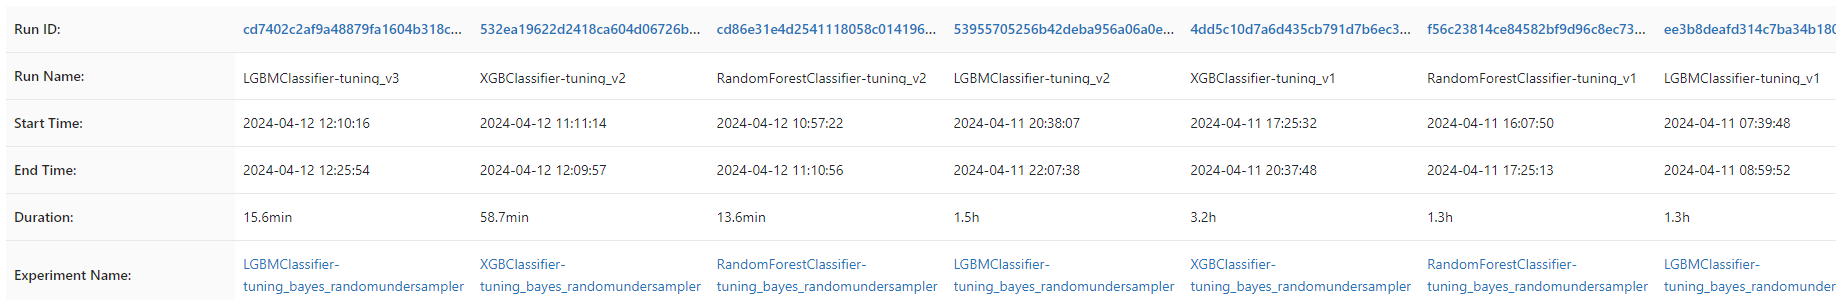
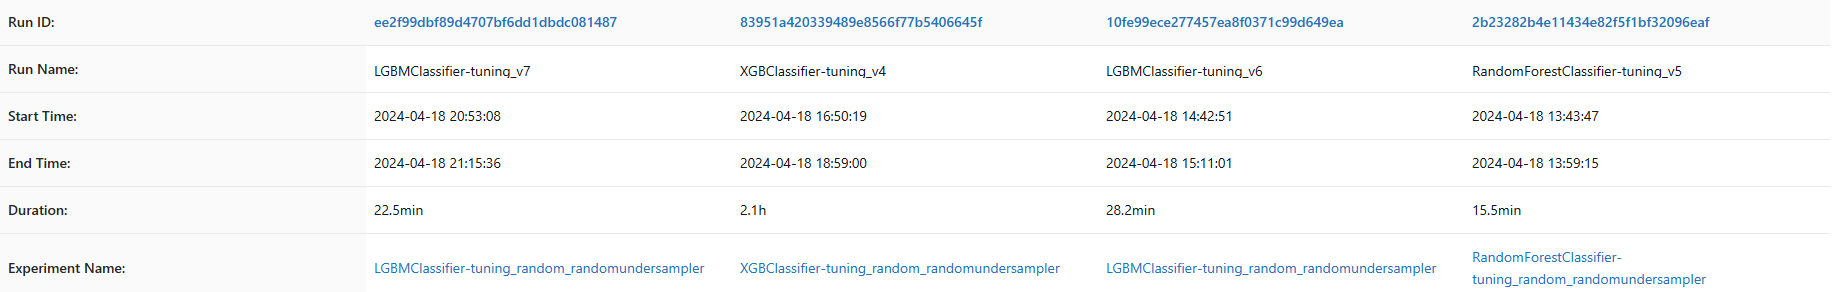
Modified screens with last model version for coherence with presentation.

diff --git a/note_methodologique.md b/note_methodologique.md
@@ -79,7 +79,7 @@ Liens utiles :
 
   Nous avons aussi calculé et enregistré les indicateurs suivants pour les différentes valeurs de seuil: précision, rappel, accuracy, fonction fbeta (beta = np.sqrt(5)) et tracé les courbes correspondantes sur le jeu test. Le graphique permet de repérer facilement le seuil optimal.
 
-  ![Graphique d'optimisation du seuil à l'aide de la courbe de coût](images/f_beta_plot_LGBMClassifier-tuning_v3.png)
+  ![Graphique d'optimisation du seuil à l'aide de la courbe de coût](images/f_beta_plot_LGBMClassifier-tuning_v7.png)
 
 ***
 
